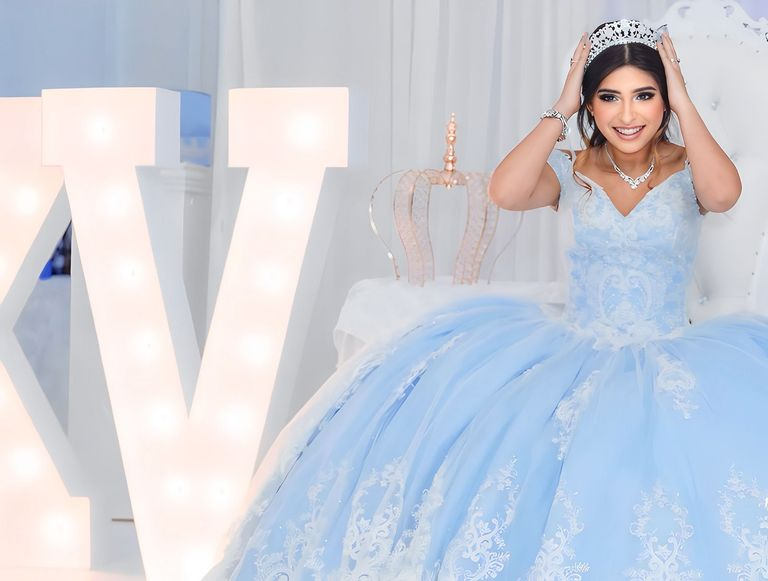
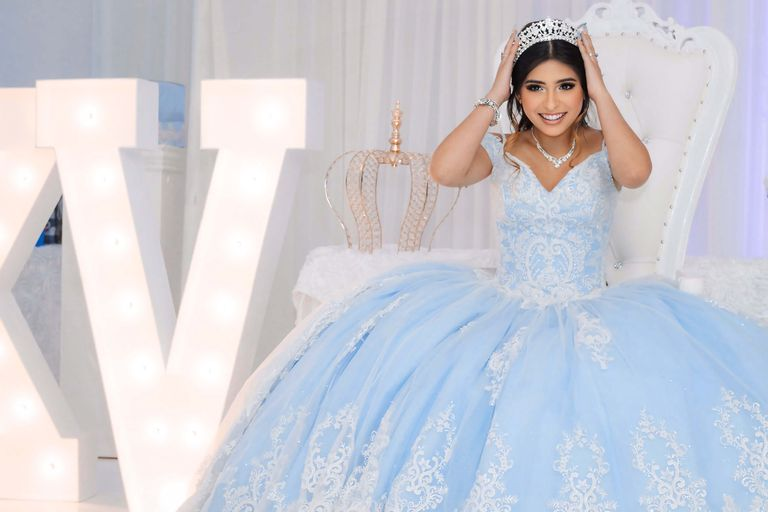
added landing image

diff --git a/client/src/assets/images/home-page/index.js b/client/src/assets/images/home-page/index.js
@@ -3,6 +3,11 @@ import blueDress1280 from './blue-dress-xv-1280.jpeg';
 import blueDress1920 from './blue-dress-xv-1920.jpeg';
 import blueDress from './blue-dress-xv.jpeg';
 
+import wedding768 from './wedding-768.jpeg';
+import wedding1280 from './wedding-1280.jpeg';
+import wedding1920 from './wedding-1920.jpeg';
+import weding from './wedding.jpeg';
+
 import marioLopez768 from './mario-lopez-768.jpeg';
 import marioLopez1280 from './mario-lopez-1280.jpeg';
 import marioLopez1920 from './mario-lopez-1920.jpeg';
@@ -18,6 +23,10 @@ export default {
   blueDress1280,
   blueDress1920,
   blueDress,
+  wedding768,
+  wedding1280,
+  wedding1920,
+  weding,
   marioLopez768,
   marioLopez1280,
   marioLopez1920,
@@ -25,5 +34,5 @@ export default {
   outdoors768,
   outdoors1280,
   outdoors1920,
-  outdoors
-}
+  outdoors,
+};

diff --git a/client/src/constants/landing.js b/client/src/constants/landing.js
@@ -14,6 +14,17 @@ export const landing = [
   },
   {
     id: 2,
+    src: homePage.wedding,
+    srcset: {
+      1920: homePage.wedding1920,
+      1280: homePage.wedding1280,
+      768: homePage.wedding768,
+    },
+    alt: 'Landing image',
+    class: 'wedding',
+  },
+  {
+    id: 3,
     src: homePage.marioLopez,
     srcset: {
       1920: homePage.marioLopez1920,
@@ -24,7 +35,7 @@ export const landing = [
     class: 'mario-lopez',
   },
   {
-    id: 3,
+    id: 4,
     src: homePage.outdoors,
     srcset: {
       1920: homePage.outdoors1920,

diff --git a/client/src/optimize/optimize-image.js b/client/src/optimize/optimize-image.js
@@ -5,7 +5,10 @@ import { dirname, join, basename, extname } from 'path';
 const __filename = fileURLToPath(import.meta.url);
 const __dirname = dirname(__filename);
 
-const inputPath = join(__dirname, '../images/home-page/outdoors.jpeg');
+const inputPath = join(
+  __dirname,
+  '../assets/images/home-page/blue-dress-xv.jpeg'
+);
 const sizes = [1920, 1280, 768];
 const quality = 80;
 

diff --git a/client/src/styles/img-queries.css b/client/src/styles/img-queries.css
@@ -14,6 +14,16 @@
   }
 
   .blue-dress-xv.slide {
+    object-position: 80% 0%;
+  }
+}
+
+.wedding {
+  object-position: 0% 20%;
+}
+
+@media screen and (max-width: 768px) {
+  .wedding {
     object-position: 100% 0%;
   }
 }
